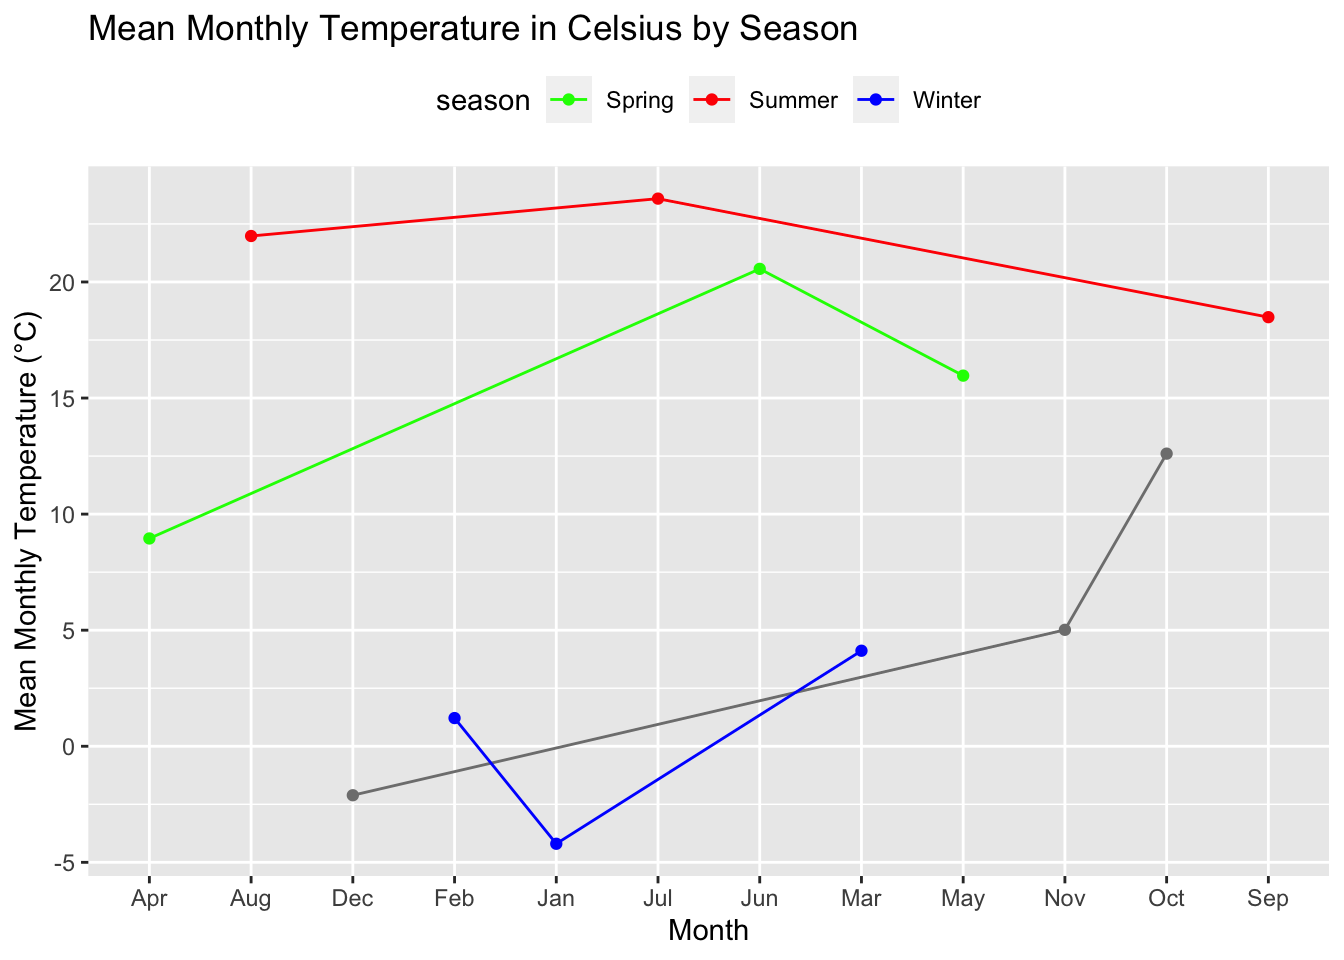
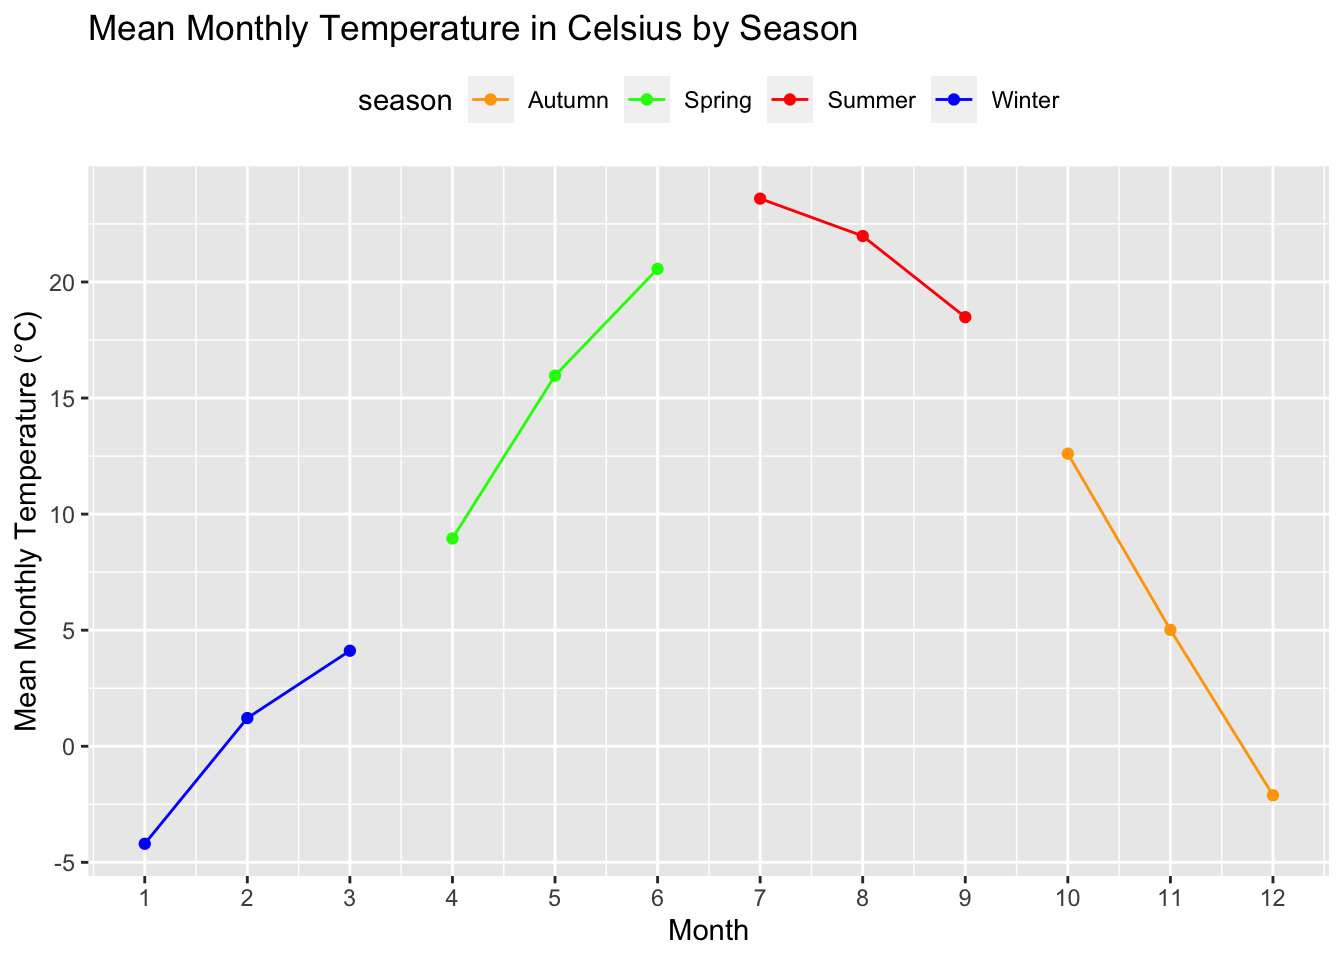
Problem 1a fixed

diff --git a/ProblemSet5.html b/ProblemSet5.html
@@ -128,26 +128,24 @@ pre > code.sourceCode > span > a:first-child::before { text-decoration: underlin
 <span id="cb4-3"><a href="#cb4-3" aria-hidden="true" tabindex="-1"></a></span>
 <span id="cb4-4"><a href="#cb4-4" aria-hidden="true" tabindex="-1"></a><span class="co"># Calculate mean monthly temperature in Celsius</span></span>
 <span id="cb4-5"><a href="#cb4-5" aria-hidden="true" tabindex="-1"></a>monthly_mean_temp <span class="ot">&lt;-</span> nnmaps <span class="sc">%&gt;%</span></span>
-<span id="cb4-6"><a href="#cb4-6" aria-hidden="true" tabindex="-1"></a>  <span class="fu">group_by</span>(season, month) <span class="sc">%&gt;%</span></span>
+<span id="cb4-6"><a href="#cb4-6" aria-hidden="true" tabindex="-1"></a>  <span class="fu">group_by</span>(season, month_numeric) <span class="sc">%&gt;%</span></span>
 <span id="cb4-7"><a href="#cb4-7" aria-hidden="true" tabindex="-1"></a>  <span class="fu">summarize</span>(<span class="at">mean_temp =</span> <span class="fu">mean</span>(temp))</span></code><button title="Copy to Clipboard" class="code-copy-button"><i class="bi"></i></button></pre></div>
 <div class="cell-output cell-output-stderr">
 <pre><code>`summarise()` has grouped output by 'season'. You can override using the
 `.groups` argument.</code></pre>
 </div>
-<div class="sourceCode cell-code" id="cb6"><pre class="sourceCode r code-with-copy"><code class="sourceCode r"><span id="cb6-1"><a href="#cb6-1" aria-hidden="true" tabindex="-1"></a><span class="co"># Set plot theme</span></span>
-<span id="cb6-2"><a href="#cb6-2" aria-hidden="true" tabindex="-1"></a><span class="co">#theme_set(theme_minimal())</span></span>
-<span id="cb6-3"><a href="#cb6-3" aria-hidden="true" tabindex="-1"></a></span>
-<span id="cb6-4"><a href="#cb6-4" aria-hidden="true" tabindex="-1"></a><span class="co"># Plot the scatter plot with lines</span></span>
-<span id="cb6-5"><a href="#cb6-5" aria-hidden="true" tabindex="-1"></a><span class="fu">ggplot</span>(monthly_mean_temp, <span class="fu">aes</span>(<span class="at">x =</span> month, <span class="at">y =</span> mean_temp, <span class="at">color =</span> season, <span class="at">group =</span> season)) <span class="sc">+</span></span>
-<span id="cb6-6"><a href="#cb6-6" aria-hidden="true" tabindex="-1"></a>  <span class="fu">geom_point</span>() <span class="sc">+</span></span>
-<span id="cb6-7"><a href="#cb6-7" aria-hidden="true" tabindex="-1"></a>  <span class="fu">geom_line</span>() <span class="sc">+</span></span>
-<span id="cb6-8"><a href="#cb6-8" aria-hidden="true" tabindex="-1"></a>  <span class="fu">labs</span>(</span>
-<span id="cb6-9"><a href="#cb6-9" aria-hidden="true" tabindex="-1"></a>    <span class="at">title =</span> <span class="st">"Mean Monthly Temperature in Celsius by Season"</span>,</span>
-<span id="cb6-10"><a href="#cb6-10" aria-hidden="true" tabindex="-1"></a>    <span class="at">x =</span> <span class="st">"Month"</span>,</span>
-<span id="cb6-11"><a href="#cb6-11" aria-hidden="true" tabindex="-1"></a>    <span class="at">y =</span> <span class="st">"Mean Monthly Temperature (°C)"</span></span>
-<span id="cb6-12"><a href="#cb6-12" aria-hidden="true" tabindex="-1"></a>  ) <span class="sc">+</span></span>
-<span id="cb6-13"><a href="#cb6-13" aria-hidden="true" tabindex="-1"></a>  <span class="fu">theme</span>(<span class="at">legend.position=</span><span class="st">"top"</span>) <span class="sc">+</span></span>
-<span id="cb6-14"><a href="#cb6-14" aria-hidden="true" tabindex="-1"></a>  <span class="fu">scale_color_manual</span>(<span class="at">values =</span> <span class="fu">c</span>(<span class="st">'Winter'</span> <span class="ot">=</span> <span class="st">'blue'</span>, <span class="st">'Spring'</span> <span class="ot">=</span> <span class="st">'green'</span>, <span class="st">'Summer'</span> <span class="ot">=</span> <span class="st">'red'</span>, <span class="st">'Fall'</span> <span class="ot">=</span> <span class="st">'orange'</span>))</span></code><button title="Copy to Clipboard" class="code-copy-button"><i class="bi"></i></button></pre></div>
+<div class="sourceCode cell-code" id="cb6"><pre class="sourceCode r code-with-copy"><code class="sourceCode r"><span id="cb6-1"><a href="#cb6-1" aria-hidden="true" tabindex="-1"></a><span class="co"># Plot the scatter plot with lines</span></span>
+<span id="cb6-2"><a href="#cb6-2" aria-hidden="true" tabindex="-1"></a><span class="fu">ggplot</span>(monthly_mean_temp, <span class="fu">aes</span>(<span class="at">x =</span> month_numeric, <span class="at">y =</span> mean_temp, <span class="at">color =</span> season, <span class="at">group =</span> season)) <span class="sc">+</span></span>
+<span id="cb6-3"><a href="#cb6-3" aria-hidden="true" tabindex="-1"></a>  <span class="fu">geom_point</span>() <span class="sc">+</span></span>
+<span id="cb6-4"><a href="#cb6-4" aria-hidden="true" tabindex="-1"></a>  <span class="fu">geom_line</span>() <span class="sc">+</span></span>
+<span id="cb6-5"><a href="#cb6-5" aria-hidden="true" tabindex="-1"></a>  <span class="fu">labs</span>(</span>
+<span id="cb6-6"><a href="#cb6-6" aria-hidden="true" tabindex="-1"></a>    <span class="at">title =</span> <span class="st">"Mean Monthly Temperature in Celsius by Season"</span>,</span>
+<span id="cb6-7"><a href="#cb6-7" aria-hidden="true" tabindex="-1"></a>    <span class="at">x =</span> <span class="st">"Month"</span>,</span>
+<span id="cb6-8"><a href="#cb6-8" aria-hidden="true" tabindex="-1"></a>    <span class="at">y =</span> <span class="st">"Mean Monthly Temperature (°C)"</span></span>
+<span id="cb6-9"><a href="#cb6-9" aria-hidden="true" tabindex="-1"></a>  ) <span class="sc">+</span></span>
+<span id="cb6-10"><a href="#cb6-10" aria-hidden="true" tabindex="-1"></a>  <span class="fu">theme</span>(<span class="at">legend.position=</span><span class="st">"top"</span>) <span class="sc">+</span></span>
+<span id="cb6-11"><a href="#cb6-11" aria-hidden="true" tabindex="-1"></a>  <span class="fu">scale_color_manual</span>(<span class="at">values =</span> <span class="fu">c</span>(<span class="st">'Winter'</span> <span class="ot">=</span> <span class="st">'blue'</span>, <span class="st">'Spring'</span> <span class="ot">=</span> <span class="st">'green'</span>, <span class="st">'Summer'</span> <span class="ot">=</span> <span class="st">'red'</span>, <span class="st">'Autumn'</span> <span class="ot">=</span> <span class="st">'orange'</span>)) <span class="sc">+</span></span>
+<span id="cb6-12"><a href="#cb6-12" aria-hidden="true" tabindex="-1"></a>  <span class="fu">scale_x_continuous</span>(<span class="at">breaks =</span> <span class="dv">1</span><span class="sc">:</span><span class="dv">12</span>)</span></code><button title="Copy to Clipboard" class="code-copy-button"><i class="bi"></i></button></pre></div>
 <div class="cell-output-display">
 <p><img src="ProblemSet5_files/figure-html/unnamed-chunk-2-1.png" class="img-fluid" width="672"></p>
 </div>
